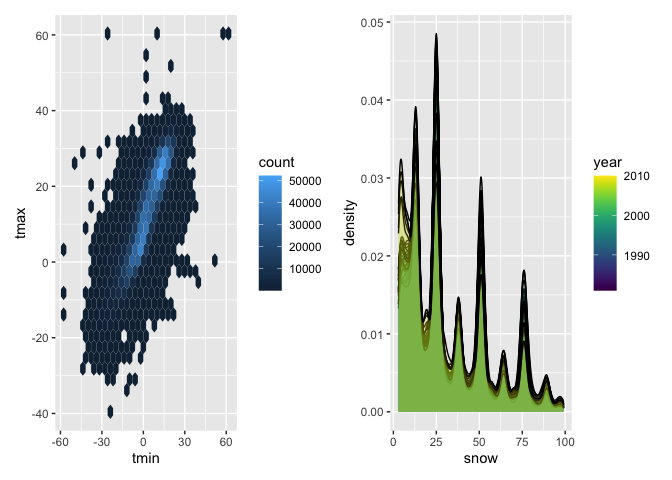
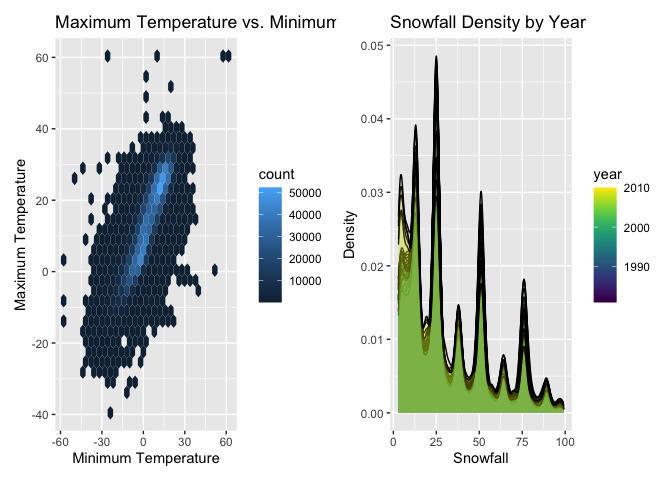
updated written answers to questions

diff --git a/p8105_hw3_si2426.md b/p8105_hw3_si2426.md
@@ -106,13 +106,14 @@ ggplot(total_activity_df, aes(x = day_number, y = total_activity)) +
   )
 ```
 
-![](p8105_hw3_si2426_files/figure-gfm/unnamed-chunk-3-1.png)<!-- -->
-Viewing the plot, it is apparent that the individual was gradually
-increasing his activity levels until the second week, after which his
-activity levels decreased. This continued until around the third week
-when it continued to remain stable. It should be noted that there are
-several outliers, such as the fourth and fifth Saturdays, which have
-much lower activity levels than the other days.
+![](p8105_hw3_si2426_files/figure-gfm/unnamed-chunk-3-1.png)<!-- --> The
+plot above depicts the man’s activity total activity per day over the 5
+weeks. Viewing the plot, it is apparent that the individual was
+gradually increasing his activity levels until the second week, after
+which his activity levels decreased. This continued until around the
+third week when it continued to remain stable. It should be noted that
+there are several outliers, such as the fourth and fifth Saturdays,
+which have much lower activity levels than the other days.
 
 #### Activity Over the Course of the Day
 
@@ -131,7 +132,8 @@ accel_hour_plot = ggplot(accel_hour_df, aes(x = hour, y = hourly_total)) +
 
 accel_min_plot = ggplot(accel_df, aes(x = minute, y = activity_counts)) + 
   geom_point(aes(color = day)) +
-  geom_smooth(se = FALSE) +  labs(
+  geom_smooth(se = FALSE) +  
+  labs(
     title = "Activity Over the Course of the Day (Minutes)",
     x = "Minute",
     y = "Activity")
@@ -141,7 +143,17 @@ accel_min_plot + accel_hour_plot
 
 ![](p8105_hw3_si2426_files/figure-gfm/unnamed-chunk-4-1.png)<!-- -->
 
-# WRITE SUMMARY
+The plots above depict the man’s recorded activity levels throughout the
+day. The graph on the left depicts his activity level at each minute
+while the graph on the right depicts his activity level totals across
+each hour of the day in order to better visualize the data. According to
+both the minutes and hour plots, the overall trend was that the man’s
+activity level would gradually increase during the day until around
+10:00, after which it would plateau until around 19:00. The man’s
+activity levels would decrease from 19:00 until the end of the day.
+There were several instances, such as numerous minutes on a Sunday
+morning, during which the man was much more active as shown in the
+minutes graph.
 
 ## Problem 3
 
@@ -183,30 +195,50 @@ snow were recorded.
 #### Average Max Temperature in January and July in Each Station Across Years
 
 ``` r
-ny_noaa_df_jan_jul = ny_noaa_df %>% filter(month == 1 | month == 7) %>% group_by(id, month, year) %>% drop_na(tmax) %>% summarize(mean_tmax = mean(tmax, na.rm = FALSE))
+ny_noaa_df_jan_jul = ny_noaa_df %>% filter(month == 1 | month == 7) %>% group_by(id, month, year) %>% drop_na(tmax) %>% summarize(mean_tmax = mean(tmax, na.rm = FALSE)) %>% mutate(month = ifelse(month == 1, "January", "July"))
 
 ggplot(ny_noaa_df_jan_jul, aes(x = year, y = (mean_tmax), color = id )) + 
   geom_point() +
   geom_line() + 
   facet_grid(. ~month) +   
-  theme(legend.position = "none")
+  theme(legend.position = "none") +
+  labs(
+    title = "Mean Max Temperature vs. Year",
+    x = "Year",
+    y = "Mean Max Temperature")
 ```
 
-![](p8105_hw3_si2426_files/figure-gfm/unnamed-chunk-7-1.png)<!-- --> \#
-WRITE SUMMARY
+![](p8105_hw3_si2426_files/figure-gfm/unnamed-chunk-7-1.png)<!-- --> The
+plots above depict the mean maximum temperature recorded by each station
+by year in January and July, respectively. Overall, it appears that the
+mean maximum temperature trends higher in July than in January. Overall,
+the trend appears steady in July. However, there appears to be a
+possible slight upwards trend when looking at the January data,
+especially between 1980 and 1990. There are several outliers, such as a
+very low temperature recorded by one of the stations in January in the
+1980s. Another outlier is a low temperature recorded by one of the
+stations in July in the late 1980s.
 
 #### Tmax vs. Tmin and Snowfall Distribution Plot
 
 ``` r
 tmax_v_tmin = ggplot(ny_noaa_df, aes(x = tmin, y = tmax)) + 
-  geom_hex()
+  geom_hex() +
+  labs(
+    title = "Maximum Temperature vs. Minimum Temperature",
+    x = "Minimum Temperature",
+    y = "Maximum Temperature")
 
 noaa_density = ny_noaa_df %>% 
   filter(snow > 0 & snow < 100) %>% 
   group_by(year) %>%
   ggplot(aes(x = snow, fill = year, group = year)) + 
   geom_density(alpha = .1, adjust = .5) +
-  scale_fill_viridis()
+  scale_fill_viridis() +
+  labs(
+    title = "Snowfall Density by Year",
+    x = "Snowfall",
+    y = "Density")
 
 tmax_v_tmin + noaa_density
 ```
